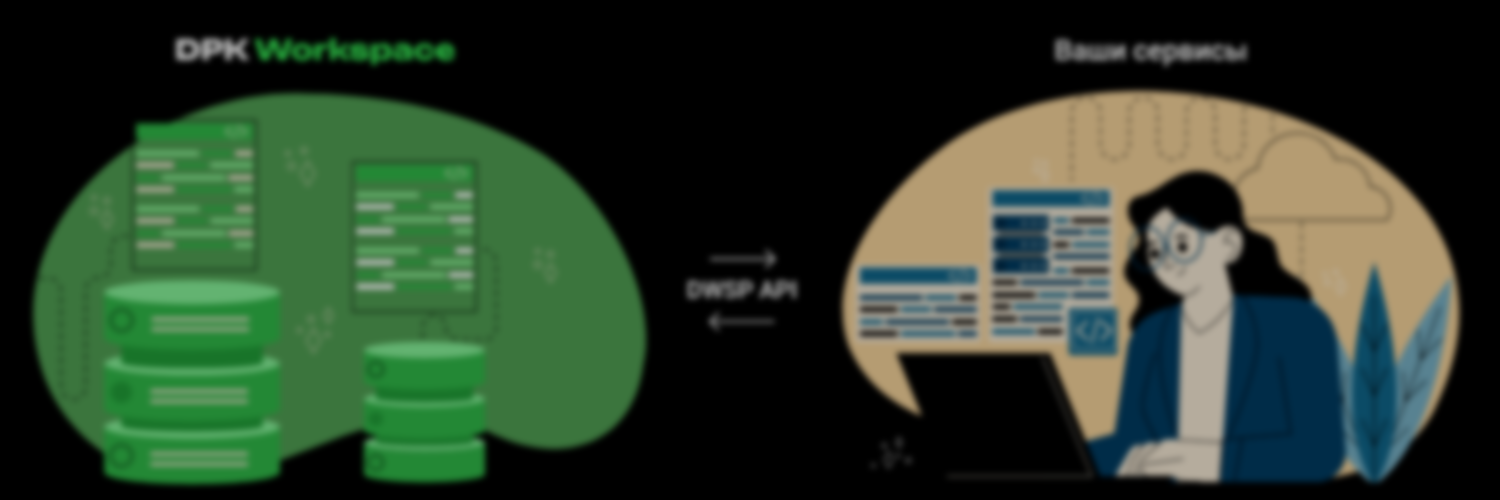
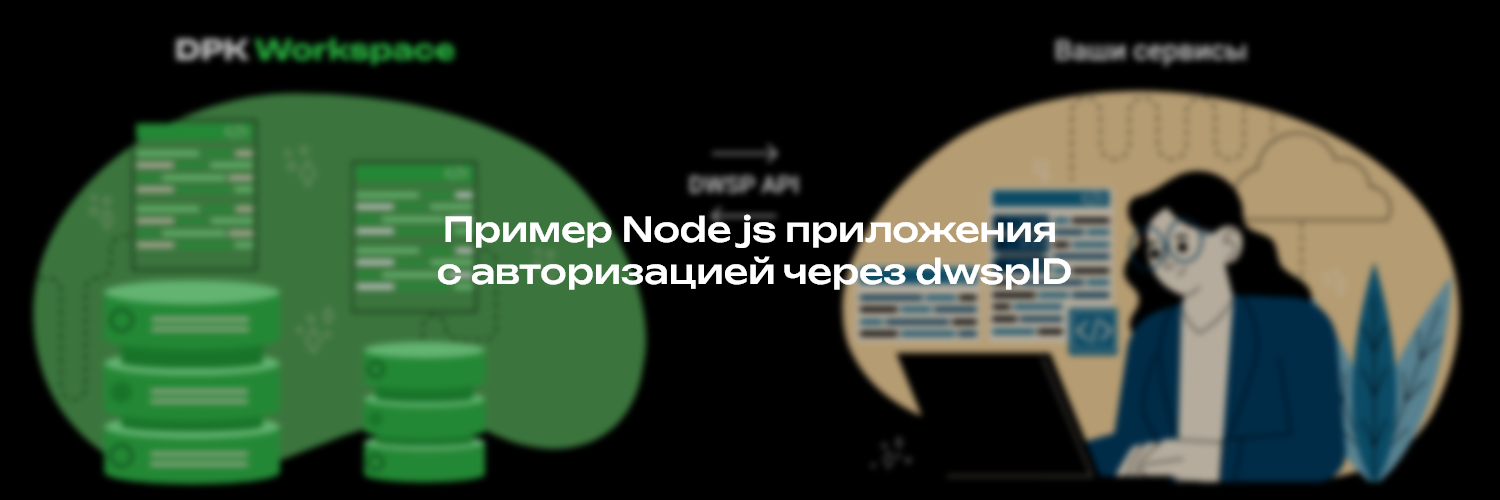
Changed README.md

Changed region(s): [[0.276, 0.42, 0.736, 0.6], [0.46, 0.3, 0.552, 0.39], [0.46, 0.63, 0.5213, 0.66]]

diff --git a/README.md b/README.md
@@ -1,17 +1,15 @@
-<div style="background: url(https://raw.githubusercontent.com/danininxbox2102/dwsp-id-js-example/main/cover.png) center center / cover;color:white;width: 500px;height: 200px;display: flex;align-items: center;justify-content: center;border-radius: 15px;font-weight: bold">
-Пример Node js приложения с авторизацией через dwspID
-</div>
+![Обложка](https://raw.githubusercontent.com/danininxbox2102/dwsp-id-js-example/main/cover.png)
 
 **Реализовано с помощью: <br>**
 * Node js, Typescript <br>
 * Express.js, SQLite <br>
 * JWT
 
-Документация и инструкция по регистрации:
+Документация и инструкция по регистрации сервиса:
 https://dev.dpkwork.space
 
 <h3>
-- Можно ли внести вклад в проект? <br>
+- Можно ли свой внести вклад? <br>
 - Нужно!
 </h3>
 
